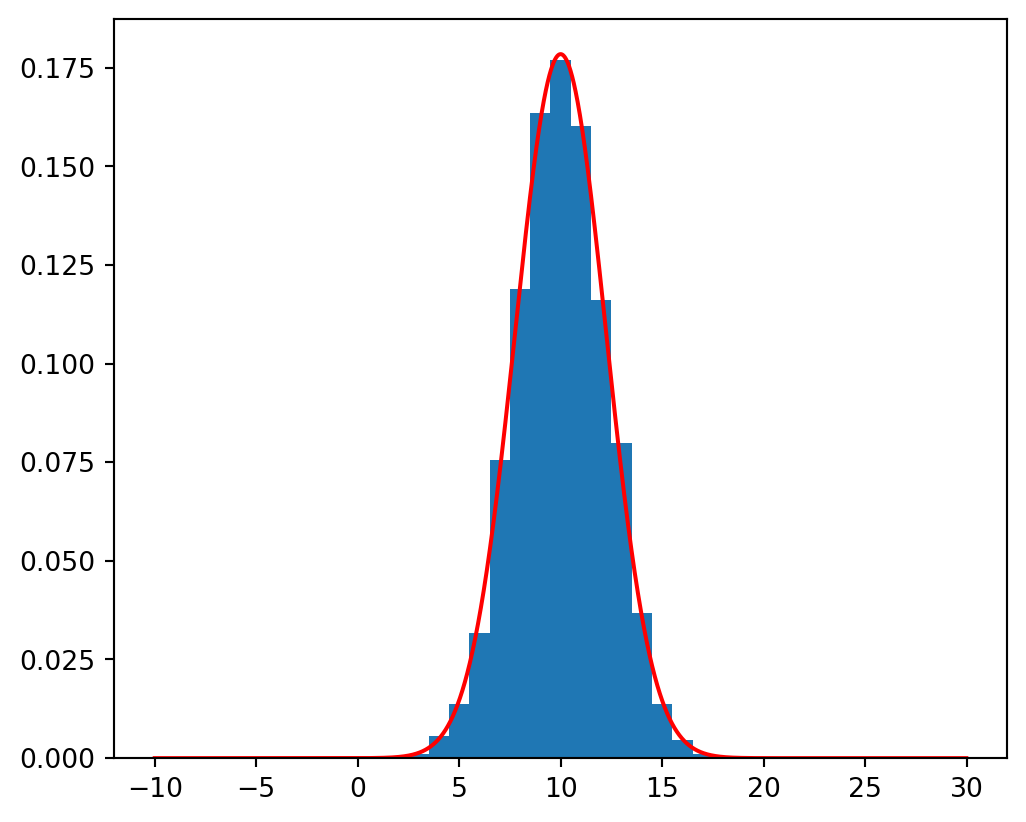
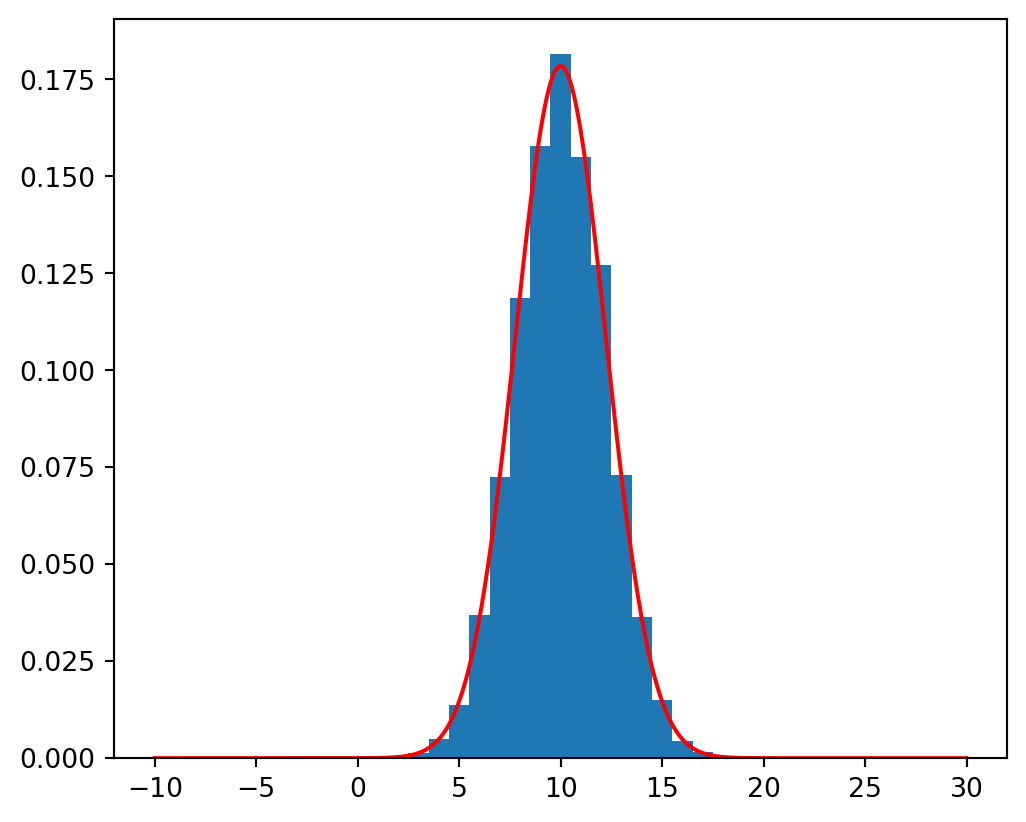
inference part B

diff --git a/c08_inferenceB/c08_inferenceB.html b/c08_inferenceB/c08_inferenceB.html
@@ -563,11 +563,11 @@
 <ul>
 <li><p>With Discrete RVs we usually talk about “Probability Mass Function” (PMF).</p></li>
 <li><p>With Continuous RVs we talk about “Probability Density Function” (PDF).</p></li>
-<li><p>If <span class="math inline">\(X \sim N(\mu, \sigma^2)\)</span> its desnsity function is defined as: <span class="math display">\[f(x) = \frac{1}{{\sigma \sqrt {2\pi } }}e^{\frac{- ( {x - \mu } )^2 }{2\sigma^2}}\]</span></p></li>
+<li><p>If <span class="math inline">\(X \sim N(\mu, \sigma^2)\)</span> its desnsity function is defined as: <span class="math display">\[f(x) = \frac{1}{{\sigma \sqrt{2\pi}}}e^{\frac{-({x - \mu})^2}{2\sigma^2}}\]</span></p></li>
 </ul>
 <div class="fragment">
 <ul>
-<li>If <span class="math inline">\(\mu = 0\)</span> and <span class="math inline">\(\sigma = 1\)</span> (a.k.a the Standard Normal Distribution <span class="math inline">\(N(0, 1)\)</span>) it has the familiar form: <span class="math display">\[f(x) = \frac{1}{{ \sqrt {2\pi } }}\exp(-\frac {x^2}{2})\]</span></li>
+<li>If <span class="math inline">\(\mu = 0\)</span> and <span class="math inline">\(\sigma = 1\)</span> (a.k.a the Standard Normal Distribution <span class="math inline">\(N(0, 1)\)</span>) it has the familiar form: <span class="math display">\[f(x) = \frac{1}{{\sqrt {2\pi}}}\exp(-\frac {x^2}{2})\]</span></li>
 </ul>
 <p>and the familiar bell shape around 0:</p>
 </div>
@@ -710,8 +710,8 @@
 <span id="cb5-4"><a href="#cb5-4" aria-hidden="true" tabindex="-1"></a><span class="bu">print</span>(<span class="ss">f'Mean of mean differences: </span><span class="sc">{</span>mu<span class="sc">: .2f}</span><span class="ss">'</span>)</span>
 <span id="cb5-5"><a href="#cb5-5" aria-hidden="true" tabindex="-1"></a><span class="bu">print</span>(<span class="ss">f'SD of mean differences: </span><span class="sc">{</span>sigma<span class="sc">: .2f}</span><span class="ss">'</span>)</span></code><button title="Copy to Clipboard" class="code-copy-button"><i class="bi"></i></button></pre></div>
 <div class="cell-output cell-output-stdout">
-<pre><code>Mean of mean differences: -0.05
-SD of mean differences:  10.24</code></pre>
+<pre><code>Mean of mean differences:  0.13
+SD of mean differences:  10.23</code></pre>
 </div>
 </div>
 <ul>
@@ -769,7 +769,7 @@ SD of mean differences:  10.24</code></pre>
 <div class="cell" data-execution_count="8">
 <div class="sourceCode cell-code" id="cb8"><pre class="sourceCode python code-with-copy"><code class="sourceCode python"><span id="cb8-1"><a href="#cb8-1" aria-hidden="true" tabindex="-1"></a><span class="bu">print</span>(<span class="ss">f'(</span><span class="sc">{</span>mu <span class="op">-</span> <span class="dv">2</span> <span class="op">*</span> sigma<span class="sc">: .2f}</span><span class="ss">, </span><span class="sc">{</span>mu <span class="op">+</span> <span class="dv">2</span> <span class="op">*</span> sigma<span class="sc">: .2f}</span><span class="ss">)'</span>)</span></code><button title="Copy to Clipboard" class="code-copy-button"><i class="bi"></i></button></pre></div>
 <div class="cell-output cell-output-stdout">
-<pre><code>(-20.54,  20.44)</code></pre>
+<pre><code>(-20.32,  20.58)</code></pre>
 </div>
 </div>
 <ul>
